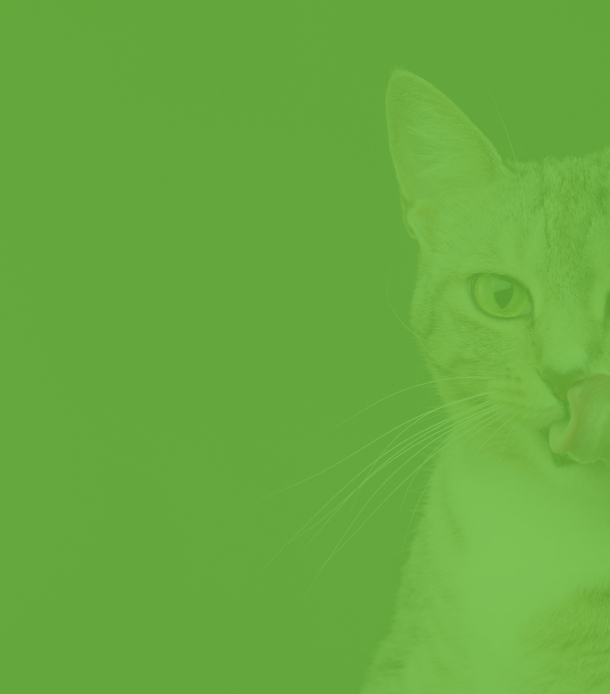
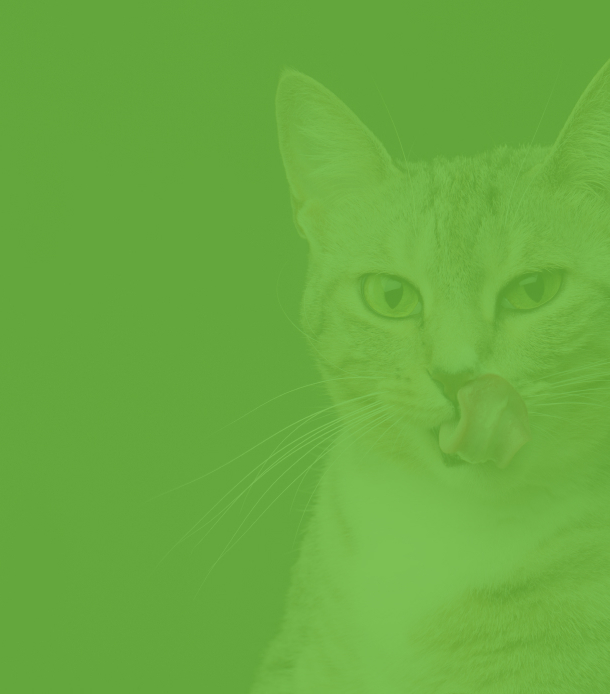
Главная десктоп: Стилизация блока интро.

diff --git a/source/sass/blocks/intro.scss b/source/sass/blocks/intro.scss
@@ -34,9 +34,10 @@
   }
 
   @media (min-width: $desktop-width) {
+    min-height: 696px;
     background-image: url("../img/intro-bg-desk@1x.jpg"), linear-gradient(to right, $basic-white 50%, #64A73D 50%);
-    background-position: top right;
-    background-size: auto, auto;
+    background-position: top right, 100%;
+    background-size: auto 100%, auto;
   }
 }
 
@@ -50,7 +51,7 @@
   }
 
   @media (min-width: $desktop-width) {
-    width: 1220px;
+    max-width: 1220px;
     margin-left: auto;
     margin-right: auto;
   }

diff --git a/source/sass/blocks/page-header.scss b/source/sass/blocks/page-header.scss
@@ -61,7 +61,7 @@
   }
 
   @media (min-width: $desktop-width) {
-    width: 1220px;
+    max-width: 1220px;
     margin: 0 auto;
     padding-left: 40px;
     padding-right: 40px;
